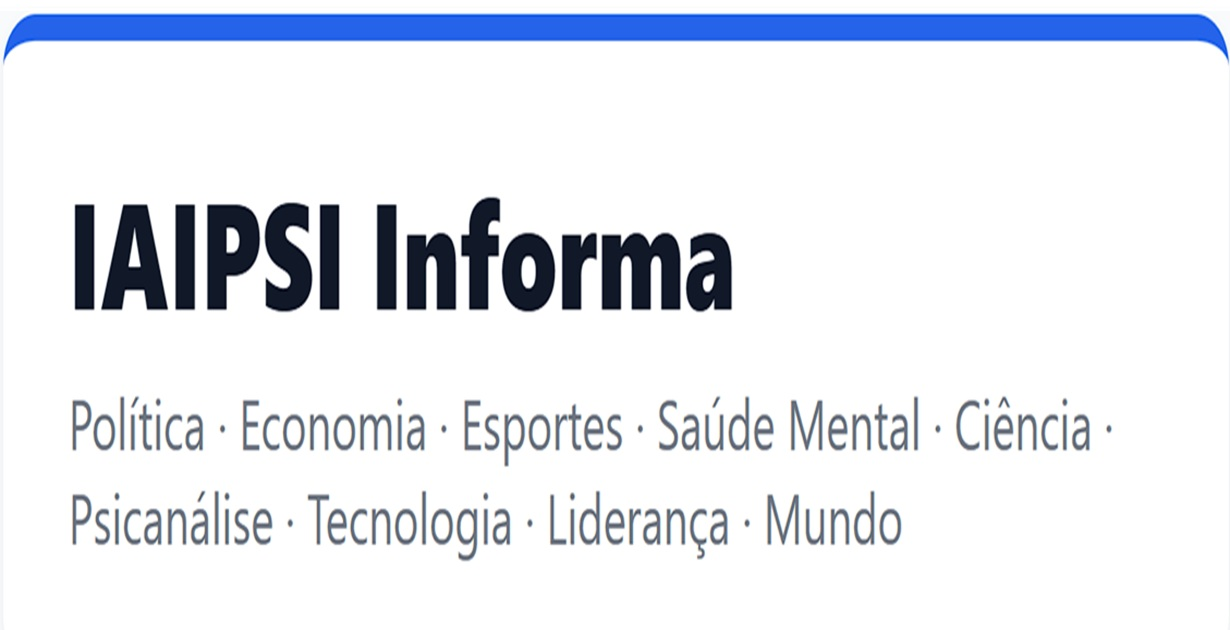
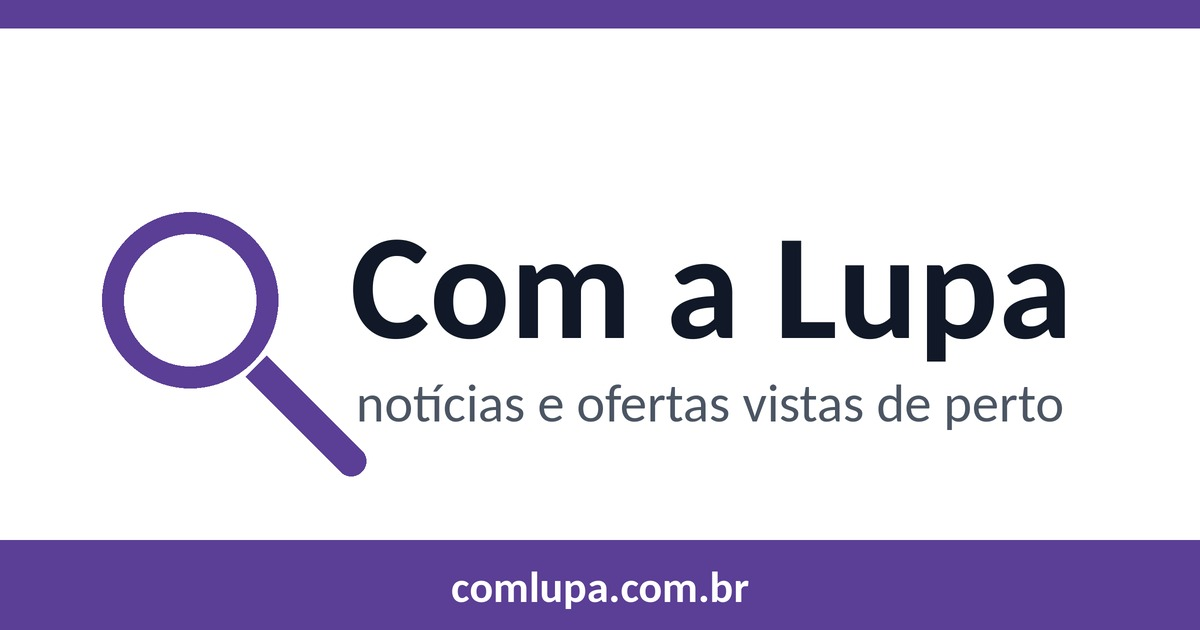
novo site

diff --git a/app/termos/page.tsx b/app/termos/page.tsx
@@ -12,7 +12,7 @@ export default function TermosPrivacidadePage() {
 
         <div style={{ backgroundColor: '#2563eb', padding: '32px' }}>
           <h1 style={{ fontSize: '1.8rem', fontWeight: 800, color: '#fff', margin: '0 0 6px' }}>Termos de Uso e Privacidade</h1>
-          <p style={{ color: 'rgba(255,255,255,0.8)', fontSize: '0.9rem', margin: 0 }}>IAIPSI Informa — informa.iaipsi.com</p>
+          <p style={{ color: 'rgba(255,255,255,0.8)', fontSize: '0.9rem', margin: 0 }}>Com a Lupa — comlupa.com.br</p>
         </div>
 
         <div style={{ padding: '40px', display: 'flex', flexDirection: 'column', gap: '32px' }}>
@@ -20,14 +20,14 @@ export default function TermosPrivacidadePage() {
           {/* Seção */}
           {[
             {
-              titulo: '1. Sobre o IAIPSI Informa',
+              titulo: '1. Sobre o Com a Lupa',
               icone: '🌐',
-              texto: `O IAIPSI Informa (informa.iaipsi.com) é um agregador de notícias e curadoria de conteúdo mantido por Adilson Costa — Psicanalista, Consultor Organizacional e Desenvolvedor. O site reúne notícias de portais públicos via feeds RSS, análises editoriais elaboradas com auxílio de inteligência artificial e revisadas pelo autor, posts da seção Sabores & Destinos, e uma seleção curada de ofertas e produtos de parceiros afiliados.`,
+              texto: `O Com a Lupa (comlupa.com.br) é um agregador de notícias e curadoria de conteúdo mantido por Adilson Costa — Psicanalista, Consultor Organizacional e Desenvolvedor. O site reúne notícias de portais públicos via feeds RSS, análises editoriais elaboradas com auxílio de inteligência artificial e revisadas pelo autor, posts da seção Sabores & Destinos, e uma seleção curada de ofertas e produtos de parceiros afiliados.`,
             },
             {
               titulo: '2. Notícias e Conteúdo Jornalístico',
               icone: '📰',
-              texto: `As notícias exibidas no IAIPSI Informa são coletadas automaticamente de feeds RSS públicos de portais de comunicação como G1, CNN Brasil, BBC Brasil, UOL, Folha de S.Paulo, entre outros. O IAIPSI Informa não é autor, responsável editorial ou proprietário dessas matérias. Todo o crédito pertence aos veículos originais. Os links sempre redirecionam para a fonte original.`,
+              texto: `As notícias exibidas no site Com a Lupa são coletadas automaticamente de feeds RSS públicos de portais de comunicação como G1, CNN Brasil, BBC Brasil, UOL, Folha de S.Paulo, entre outros. O site Com a Lupa não é autor, responsável editorial ou proprietário dessas matérias. Todo o crédito pertence aos veículos originais. Os links sempre redirecionam para a fonte original.`,
             },
             {
               titulo: '3. Análises Editoriais e Sabores & Destinos',
@@ -37,12 +37,12 @@ export default function TermosPrivacidadePage() {
             {
               titulo: '4. Ofertas, Cupons e Links de Afiliado',
               icone: '🛍',
-              texto: `O IAIPSI Informa participa de programas de afiliados (Lomadee, Awin, Rakuten e outros). Isso significa que ao clicar em certos links e realizar uma compra, o site pode receber uma comissão sem custo adicional para você.\n\nOs preços, condições de parcelamento e disponibilidade dos produtos são de responsabilidade exclusiva dos anunciantes e podem ser alterados a qualquer momento sem aviso prévio. Sempre confirme as condições finais no site do anunciante e no carrinho de compras antes de finalizar a compra.\n\nO IAIPSI Informa não se responsabiliza por divergências de preço, cancelamentos, atrasos ou problemas na entrega dos produtos adquiridos, visto que é somente um agregador de ofertas.`,
+              texto: `O site Com a Lupa participa de programas de afiliados (Lomadee, Awin, Rakuten e outros). Isso significa que ao clicar em certos links e realizar uma compra, o site pode receber uma comissão sem custo adicional para você.\n\nOs preços, condições de parcelamento e disponibilidade dos produtos são de responsabilidade exclusiva dos anunciantes e podem ser alterados a qualquer momento sem aviso prévio. Sempre confirme as condições finais no site do anunciante e no carrinho de compras antes de finalizar a compra.\n\nO site Com a Lupa não se responsabiliza por divergências de preço, cancelamentos, atrasos ou problemas na entrega dos produtos adquiridos, visto que é somente um agregador de ofertas.`,
             },
             {
   titulo: '5. Cookies e Dados Pessoais',
   icone: '🍪',
-  texto: `O IAIPSI Informa não utiliza cookies de rastreamento, pixels de publicidade ou ferramentas de coleta de dados pessoais próprias.\n\nNão coletamos nome, e-mail, CPF ou qualquer dado pessoal dos visitantes. Não há cadastro, login ou área de membros.\n\n⚠ Exceção: Seu Universo. Ao montar sua lista de produtos e ofertas e solicitar o envio por email, o endereço de email informado por você é armazenado em nossa newsletter para que você receba novidades e curadoria selecionada. Você pode solicitar a remoção a qualquer momento.\n\nOs sites externos acessados via links (lojas, portais de notícias, parceiros afiliados) possuem suas próprias políticas de privacidade e uso de cookies, sobre as quais não temos controle.`,
+  texto: `O site Com a Lupa não utiliza cookies de rastreamento, pixels de publicidade ou ferramentas de coleta de dados pessoais próprias.\n\nNão coletamos nome, e-mail, CPF ou qualquer dado pessoal dos visitantes. Não há cadastro, login ou área de membros.\n\n⚠ Exceção: Seu Universo. Ao montar sua lista de produtos e ofertas e solicitar o envio por email, o endereço de email informado por você é armazenado em nossa newsletter para que você receba novidades e curadoria selecionada. Você pode solicitar a remoção a qualquer momento.\n\nOs sites externos acessados via links (lojas, portais de notícias, parceiros afiliados) possuem suas próprias políticas de privacidade e uso de cookies, sobre as quais não temos controle.`,
 },
             {
               titulo: '6. Inteligência Artificial',
@@ -52,12 +52,12 @@ export default function TermosPrivacidadePage() {
             {
               titulo: '7. Propriedade Intelectual',
               icone: '©',
-              texto: `O conteúdo original do IAIPSI Informa — análises editoriais, posts Sabores & Destinos, curadoria de ofertas e design do site — é de propriedade de Adilson Costa e protegido por direitos autorais. As notícias exibidas pertencem aos seus respectivos veículos. As imagens de produtos pertencem aos respectivos anunciantes.`,
+              texto: `O conteúdo original do site Com a Lupa — análises editoriais, posts Sabores & Destinos, curadoria de ofertas e design do site — é de propriedade de Adilson Costa e protegido por direitos autorais. As notícias exibidas pertencem aos seus respectivos veículos. As imagens de produtos pertencem aos respectivos anunciantes.`,
             },
             {
               titulo: '8. Contato',
               icone: '✉',
-              texto: `Para dúvidas, solicitações ou sugestões, entre em contato através do site principal: iaipsi.com`,
+              texto: `Para dúvidas, solicitações ou sugestões, entre em contato pelo e-mail contato@comlupa.com.br`,
             },
           ].map(({ titulo, icone, texto }) => (
             <div key={titulo}>

diff --git a/app/FooterSite.tsx b/app/FooterSite.tsx
@@ -14,7 +14,8 @@ export default function FooterSite() {
 
           {/* Coluna 1 — Marca */}
           <div>
-            <h3 style={{ fontSize: '1.1rem', fontWeight: 800, color: '#111827', margin: '0 0 10px' }}>IAIPSI Informa</h3>
+            <h3 style={{ fontSize: '1.1rem', fontWeight: 800, color: '#111827', margin: '0 0 2px' }}>🔍 Com a Lupa</h3>
+            <p style={{ fontSize: '0.7rem', color: '#9ca3af', margin: '0 0 10px' }}>por IAIPSI</p>
             <p style={{ fontSize: '0.65rem', color: '#6b7280', lineHeight: 1.6, margin: '0 0 16px' }}>
               Agregador de notícias com curadoria editorial, análises psicanalíticas e seleção de ofertas.
             </p>
@@ -76,13 +77,13 @@ export default function FooterSite() {
       <div style={{ borderTop: '1px solid #f3f4f6', backgroundColor: '#f9fafb' }}>
         <div style={{ maxWidth: '1060px', margin: '0 auto', padding: '20px', display: 'flex', flexDirection: 'column', gap: '8px' }}>
           <p style={{ fontSize: '0.72rem', color: '#9ca3af', margin: 0, lineHeight: 1.6 }}>
-            <strong style={{ color: '#6b7280' }}>Notícias:</strong> Coletadas automaticamente dos principais portais de comunicação do Brasil e do mundo via feeds RSS públicos. O IAIPSI Informa não é autor das matérias jornalísticas exibidas.
+            <strong style={{ color: '#6b7280' }}>Notícias:</strong> Coletadas automaticamente dos principais portais de comunicação do Brasil e do mundo via feeds RSS públicos. O site Com a Lupa não é autor das matérias jornalísticas exibidas.
           </p>
           <p style={{ fontSize: '0.72rem', color: '#9ca3af', margin: 0, lineHeight: 1.6 }}>
             <strong style={{ color: '#6b7280' }}>Análises editoriais e Sabores & Destinos:</strong> Elaboradas com auxílio de inteligência artificial e revisadas.
           </p>
           <p style={{ fontSize: '0.72rem', color: '#9ca3af', margin: 0, lineHeight: 1.6 }}>
-            <strong style={{ color: '#6b7280' }}>Ofertas e afiliados:</strong> Os produtos, ofertas e cupons exibidos são de responsabilidade exclusiva dos respectivos anunciantes. Preços, condições e disponibilidade estão sujeitos a alteração. Confira sempre o valor final no site do anunciante antes de concluir a compra. Links de afiliado — ao comprar através deles você apoia o IAIPSI Informa sem custo adicional para você.
+            <strong style={{ color: '#6b7280' }}>Ofertas e afiliados:</strong> Os produtos, ofertas e cupons exibidos são de responsabilidade exclusiva dos respectivos anunciantes. Preços, condições e disponibilidade estão sujeitos a alteração. Confira sempre o valor final no site do anunciante antes de concluir a compra. Links de afiliado — ao comprar através deles você apoia o site Com a Lupa sem custo adicional para você.
           </p>
         </div>
       </div>
@@ -91,7 +92,7 @@ export default function FooterSite() {
       <div style={{ borderTop: '1px solid #e5e7eb', backgroundColor: '#fff' }}>
         <div style={{ maxWidth: '1060px', margin: '0 auto', padding: '14px 20px', display: 'flex', justifyContent: 'space-between', alignItems: 'center', flexWrap: 'wrap', gap: '8px' }}>
           <p style={{ fontSize: '0.72rem', color: '#9ca3af', margin: 0 }}>
-            © {ano} IAIPSI Informa · Todos os direitos reservados
+            © {ano} Com a Lupa · por IAIPSI · Todos os direitos reservados
           </p>
           <p style={{ fontSize: '0.72rem', color: '#9ca3af', margin: 0 }}>
             Desenvolvido por <a href="https://iaipsi.com" target="_blank" rel="noopener noreferrer" style={{ color: '#2563eb', textDecoration: 'none' }}>Adilson Costa</a>

diff --git a/app/layout.tsx b/app/layout.tsx
@@ -1,28 +1,28 @@
 import type { Metadata } from 'next';
 
 export const metadata: Metadata = {
-  metadataBase: new URL('https://informa.iaipsi.com'),
+  metadataBase: new URL('https://comlupa.com.br'),
   title: {
-    default: 'IAIPSI — Notícias, Análises e Sabores',
-    template: '%s | IAIPSI Informa',
+    default: 'Com a Lupa — notícias e ofertas vistas de perto',
+    template: '%s | Com a Lupa',
   },
   description: 'Notícias de política, economia, saúde mental e psicanálise com análises editoriais de Adilson Costa — psicanalista e consultor organizacional.',
-  keywords: ['psicanálise', 'saúde mental', 'liderança', 'notícias', 'análise editorial', 'Adilson Costa', 'IAIPSI'],
+  keywords: ['Com a Lupa', 'ofertas', 'cupons', 'notícias', 'análise editorial', 'psicanálise', 'saúde mental', 'liderança', 'Adilson Costa', 'IAIPSI'],
   authors: [{ name: 'Adilson Costa', url: 'https://iaipsi.com' }],
   creator: 'Adilson Costa',
   openGraph: {
     type: 'website',
     locale: 'pt_BR',
-    url: 'https://informa.iaipsi.com',
-    siteName: 'IAIPSI Informa',
-    title: 'IAIPSI — Notícias, Análises e Sabores',
-    description: 'Notícias com análises editoriais de Adilson Costa — psicanalista e consultor organizacional.',
-    images: [{ url: '/og-image.jpg', width: 1200, height: 630, alt: 'IAIPSI Informa' }],
+    url: 'https://comlupa.com.br',
+    siteName: 'Com a Lupa',
+    title: 'Com a Lupa — notícias e ofertas vistas de perto',
+    description: 'Notícias com análises editoriais de Adilson Costa e ofertas selecionadas a dedo.',
+    images: [{ url: '/og-image.jpg', width: 1200, height: 630, alt: 'Com a Lupa' }],
   },
   twitter: {
     card: 'summary_large_image',
-    title: 'IAIPSI — Notícias, Análises e Sabores',
-    description: 'Notícias com análises editoriais de Adilson Costa.',
+    title: 'Com a Lupa — notícias e ofertas vistas de perto',
+    description: 'Notícias com análises editoriais de Adilson Costa e ofertas selecionadas a dedo.',
     images: ['/og-image.jpg'],
   },
   robots: {

diff --git a/app/produto/[slug]/page.tsx b/app/produto/[slug]/page.tsx
@@ -50,7 +50,7 @@ export async function generateMetadata({ params }: { params: Promise<{ slug: str
   const artigo = await getArtigo(slug);
   if (!artigo) return { title: 'Produto não encontrado' };
   return {
-    title: `${artigo.titulo} — IAIPSI Informa`,
+    title: `${artigo.titulo} — Com a Lupa`,
     description: artigo.descricaoCurta,
     openGraph: {
       title: artigo.titulo,
@@ -249,7 +249,7 @@ export default async function ArtigoProdutoPage({ params }: { params: Promise<{ 
 
       <footer style={{ marginTop: '32px', textAlign: 'center' }}>
         <p style={{ fontSize: '0.72rem', color: '#9ca3af', margin: 0 }}>
-          © {new Date().getFullYear()} IAIPSI Informa ·
+          © {new Date().getFullYear()} Com a Lupa ·
           <Link href="/termos" style={{ color: '#9ca3af', marginLeft: '4px' }}>Termos e Privacidade</Link>
         </p>
       </footer>

diff --git a/app/viagem/[slug]/page.tsx b/app/viagem/[slug]/page.tsx
@@ -74,7 +74,7 @@ export async function generateMetadata({ params }: { params: Promise<{ slug: str
   const artigo = await getArtigo(slug);
   if (!artigo) return { title: 'Viagem não encontrada' };
   return {
-    title: `${artigo.titulo} — IAIPSI Informa`,
+    title: `${artigo.titulo} — Com a Lupa`,
     description: artigo.descricaoCurta,
     openGraph: {
       title: artigo.titulo,
@@ -234,7 +234,7 @@ export default async function ArtigoViagemPage({ params }: { params: Promise<{ s
 
       <footer style={{ marginTop: '32px', textAlign: 'center' }}>
         <p style={{ fontSize: '0.72rem', color: '#9ca3af', margin: 0 }}>
-          © {new Date().getFullYear()} IAIPSI Informa ·
+          © {new Date().getFullYear()} Com a Lupa ·
           <Link href="/termos" style={{ color: '#9ca3af', marginLeft: '4px' }}>Termos e Privacidade</Link>
         </p>
       </footer>

diff --git a/app/ofertas/page.tsx b/app/ofertas/page.tsx
@@ -489,7 +489,7 @@ export default function OfertasPage() {
       <footer style={{ borderTop: '1px solid #e8e8e8', backgroundColor: '#fafafa' }}>
         <div style={{ maxWidth: '1160px', margin: '0 auto', padding: '28px 20px 40px', textAlign: 'center' }}>
           <p style={{ fontSize: '0.74rem', color: '#6b7280', margin: 0, lineHeight: 1.7, maxWidth: '640px', marginInline: 'auto' }}>
-            Links de afiliado — ao comprar através deles você apoia o IAIPSI Informa sem custo adicional. Ofertas sujeitas a disponibilidade e prazo.
+            Links de afiliado — ao comprar através deles você apoia o site Com a Lupa sem custo adicional. Ofertas sujeitas a disponibilidade e prazo.
           </p>
         </div>
       </footer>

diff --git a/app/viagens-selecionadas/page.tsx b/app/viagens-selecionadas/page.tsx
@@ -190,7 +190,7 @@ export default async function ViagensSelecionadasPage({ searchParams }: { search
 
       <footer style={{ marginTop: '40px', paddingTop: '20px', borderTop: '1px solid #e5e7eb', textAlign: 'center' }}>
         <p style={{ fontSize: '0.72rem', color: '#9ca3af', margin: 0, lineHeight: 1.6 }}>
-          Links de afiliado Viator — ao reservar através deles você apoia o IAIPSI Informa sem custo adicional.<br />
+          Links de afiliado Viator — ao reservar através deles você apoia o site Com a Lupa sem custo adicional.<br />
           Preços e condições expressos nos respectivos sites dos operadores. Confira sempre o valor antes de reservar.
         </p>
       </footer>

diff --git a/app/ofertas-selecionadas/page.tsx b/app/ofertas-selecionadas/page.tsx
@@ -169,7 +169,7 @@ export default async function OfertasSelecionadasPage({ searchParams }: { search
       )}
       <footer style={{ marginTop: '40px', paddingTop: '20px', borderTop: '1px solid #e5e7eb', textAlign: 'center' }}>
         <p style={{ fontSize: '0.72rem', color: '#9ca3af', margin: 0, lineHeight: 1.6 }}>
-          Links de afiliado — ao comprar através deles você apoia o IAIPSI Informa sem custo adicional.<br />
+          Links de afiliado — ao comprar através deles você apoia o site Com a Lupa sem custo adicional.<br />
           Preços e condições expressos nos respectivos sites dos anunciantes. Confira sempre o valor no site e no carrinho.
         </p>
       </footer>

diff --git a/app/parcelado/page.tsx b/app/parcelado/page.tsx
@@ -187,7 +187,7 @@ export default async function ParceladoPage({ searchParams }: { searchParams: Pr
 
       <footer style={{ marginTop: '40px', paddingTop: '20px', borderTop: '1px solid #e5e7eb', textAlign: 'center' }}>
         <p style={{ fontSize: '0.72rem', color: '#9ca3af', margin: 0, lineHeight: 1.6 }}>
-          Links de afiliado — ao comprar através deles você apoia o IAIPSI Informa sem custo adicional.<br />
+          Links de afiliado — ao comprar através deles você apoia o site Com a Lupa sem custo adicional.<br />
           Condições de parcelamento sujeitas a confirmação no site do anunciante e no carrinho de compras.
         </p>
       </footer>

diff --git a/app/viagens/page.tsx b/app/viagens/page.tsx
@@ -130,7 +130,7 @@ export default async function ViagensPage() {
 
       <footer style={{ marginTop: '40px', paddingTop: '20px', borderTop: '1px solid #e5e7eb', textAlign: 'center' }}>
         <p style={{ fontSize: '0.72rem', color: '#9ca3af', margin: 0, lineHeight: 1.6 }}>
-          Links de afiliado Viator — ao reservar através deles você apoia o IAIPSI Informa sem custo adicional.<br />
+          Links de afiliado Viator — ao reservar através deles você apoia o site Com a Lupa sem custo adicional.<br />
           Preços e condições expressos nos respectivos sites dos operadores. Confira sempre o valor no site antes de reservar.
         </p>
       </footer>

diff --git a/app/oferta-do-dia/page.tsx b/app/oferta-do-dia/page.tsx
@@ -219,7 +219,7 @@ export default function OfertasDoDiaPage() {
 
       <footer style={{ marginTop: '40px', paddingTop: '20px', borderTop: '1px solid #e5e7eb', textAlign: 'center' }}>
         <p style={{ fontSize: '0.72rem', color: '#9ca3af', margin: 0, lineHeight: 1.6 }}>
-          Links de afiliado — ao comprar você apoia o IAIPSI Informa sem custo adicional.<br />
+          Links de afiliado — ao comprar você apoia o site Com a Lupa sem custo adicional.<br />
           Preços e condições são de responsabilidade do anunciante. Confira sempre no site e no carrinho.
         </p>
       </footer>

diff --git a/app/NewsClient.tsx b/app/NewsClient.tsx
@@ -843,7 +843,7 @@ export default function NewsClient({ posts, ads, editorial, sabores, ofertasMix,
                 <circle cx="10.5" cy="10.5" r="6.5" />
                 <line x1="15.5" y1="15.5" x2="21" y2="21" />
               </svg>
-              IAIPSI Informa
+              Com a Lupa
             </h1>
             <p style={{ color: '#6b7280', fontSize: '1rem', margin: '6px 0 0' }}>
               Política · Economia · Esportes · Saúde Mental · Ciência · Psicanálise · Tecnologia · Liderança · Mundo · Compras · Turismo 
